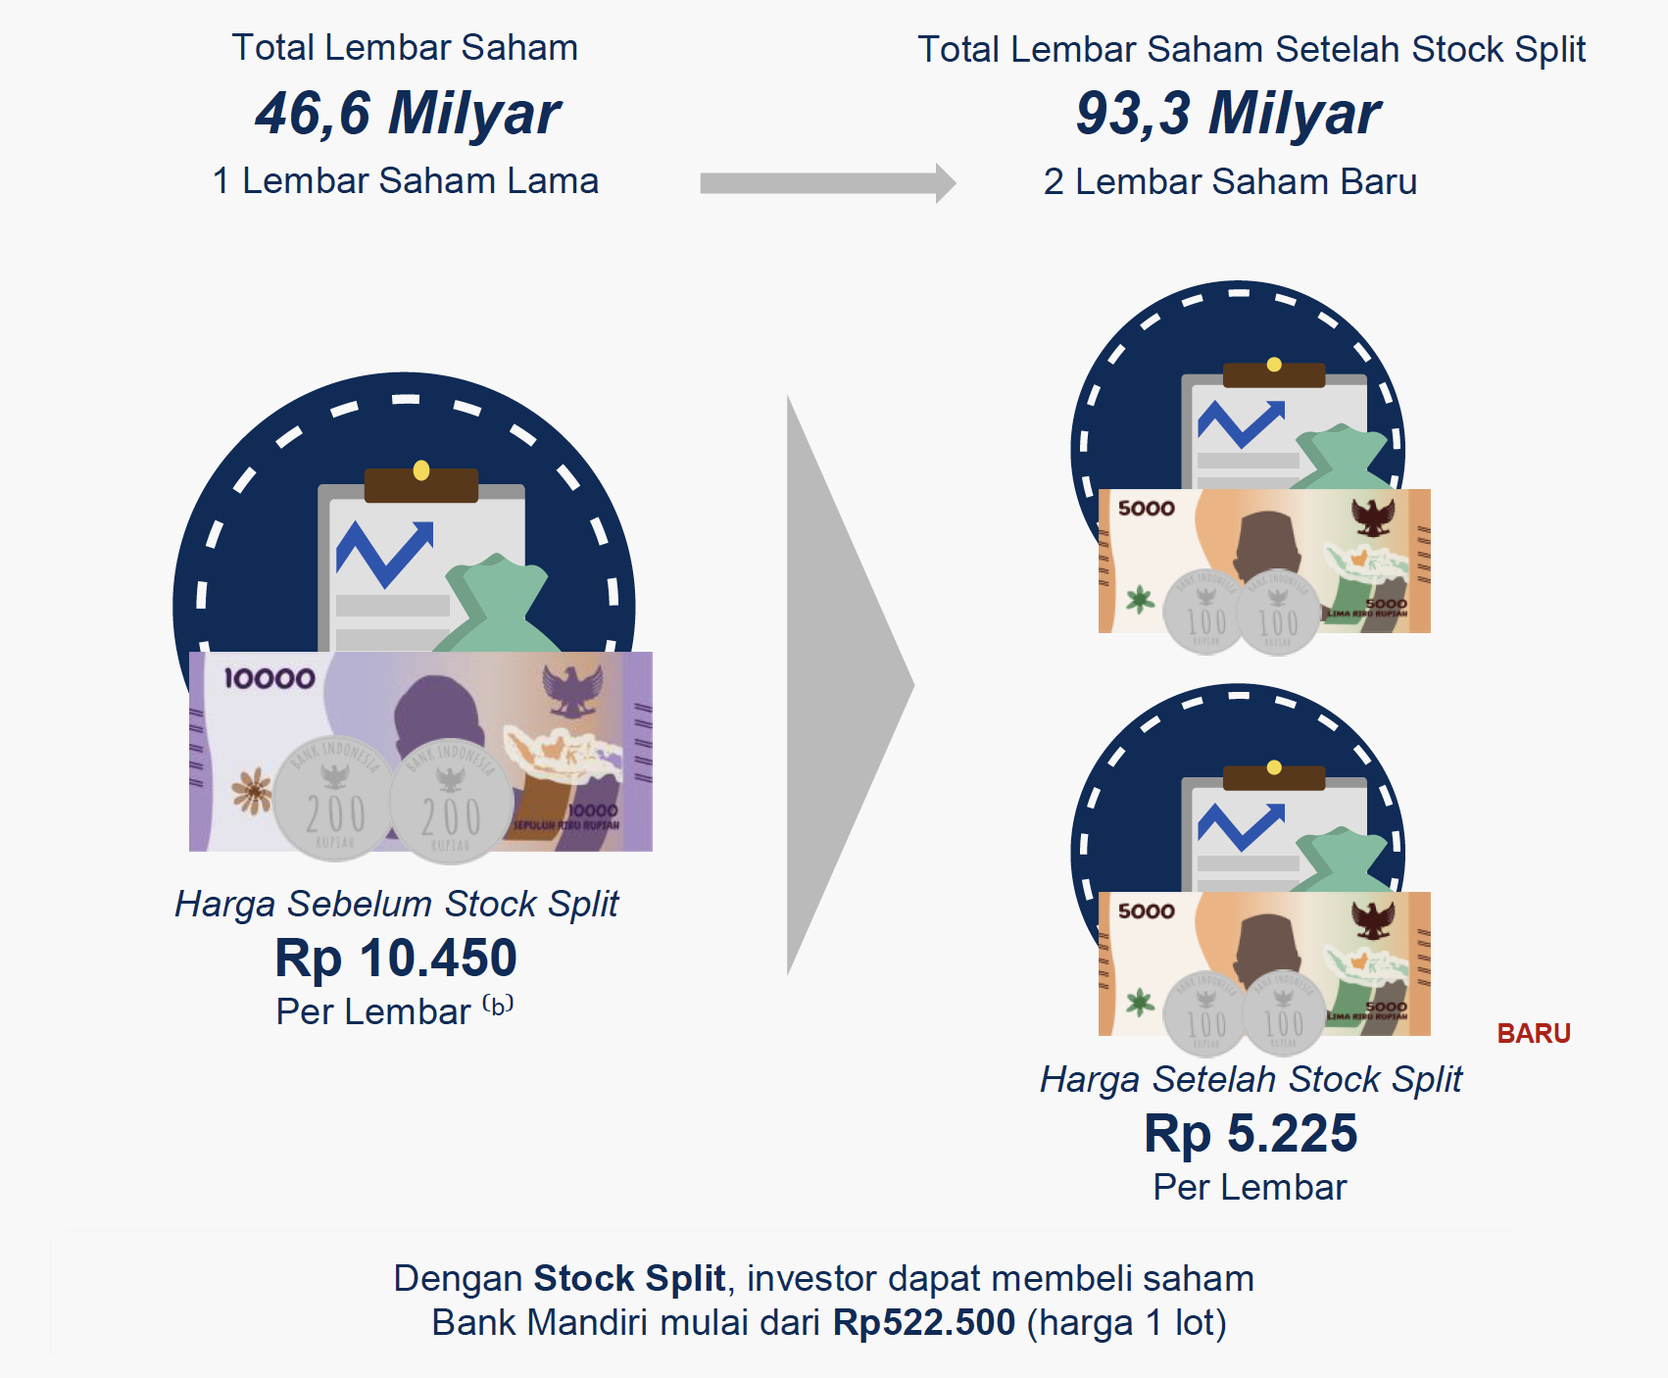
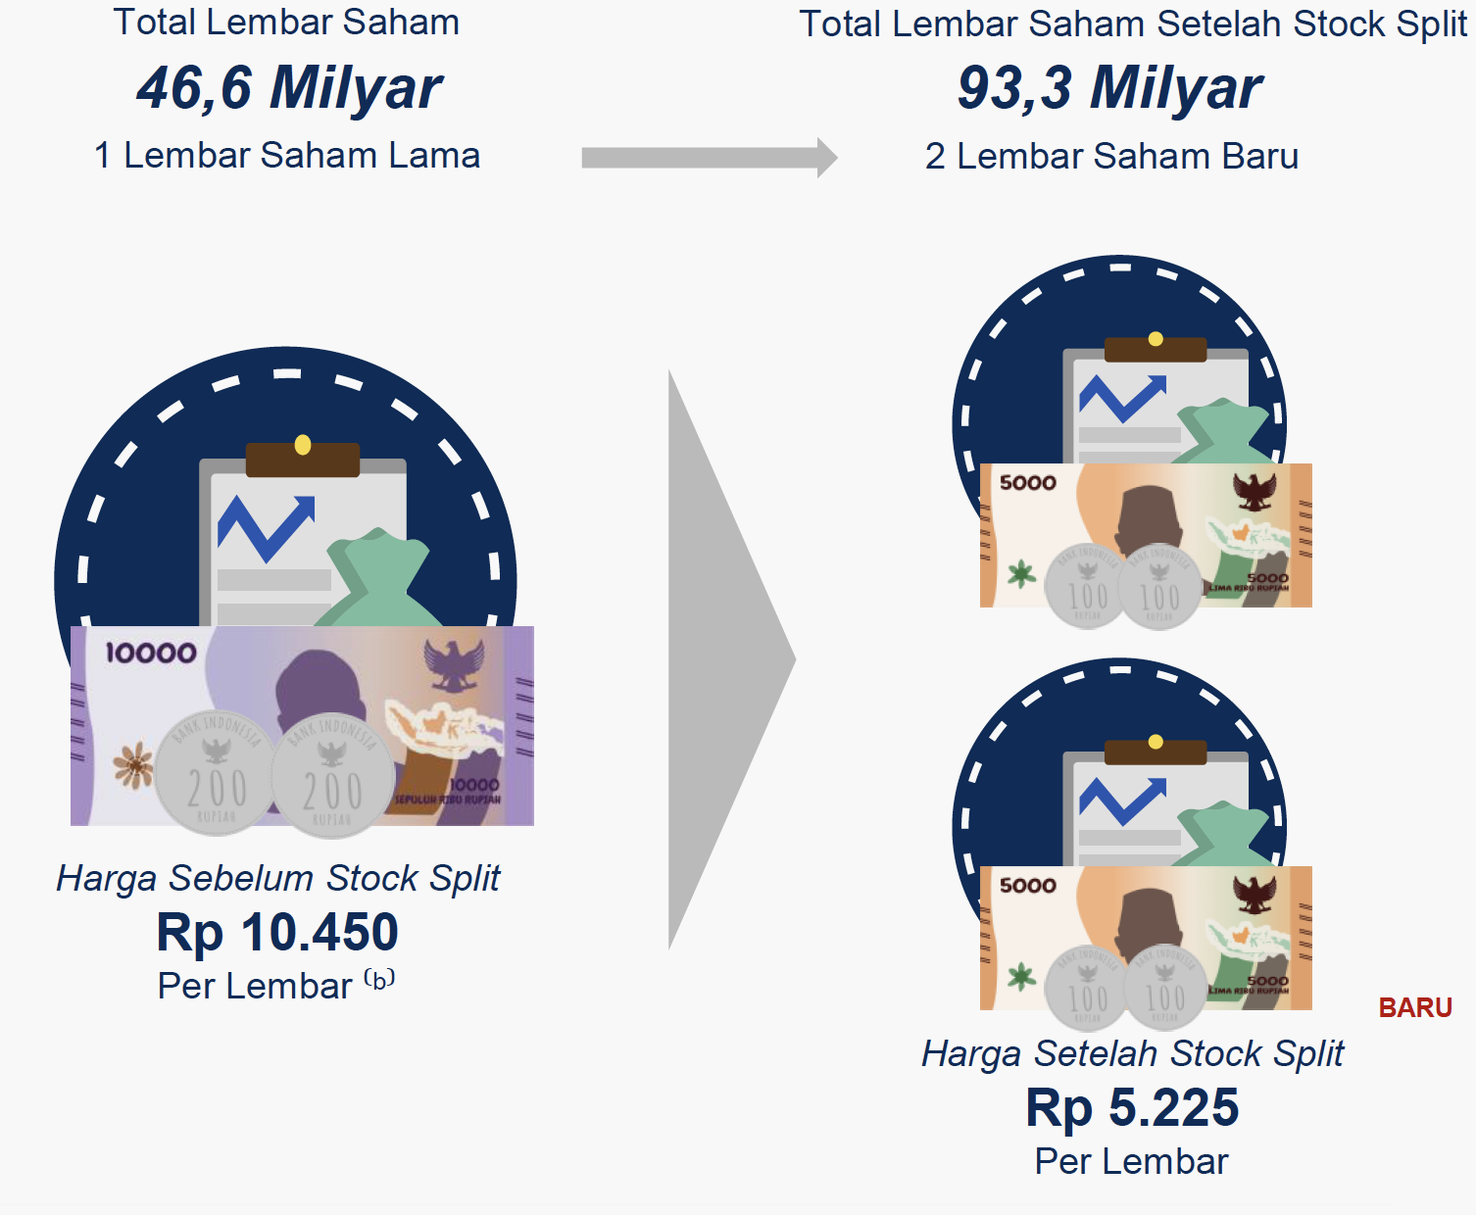
deded

diff --git a/sass/style.css b/sass/style.css
@@ -1,1 +1,1 @@
-@import"https://fonts.googleapis.com/css2?family=Bebas+Neue&family=Libre+Baskerville&family=DM+Serif+Display&family=Oxanium&family=Red+Hat+Display:wght@400;700&family=Bree+Serif&family=Kanit:wght@600&family=Montserrat:wght@400;700&display=swap";@font-face{font-family:"Aeonik Medium";src:url("../fonts/Aeonik-Medium.woff2");src:url("../fonts/Aeonik-Medium.woff2") format("woff2")}@font-face{font-family:"Aeonik Regular";src:url("../fonts/Aeonik-Regular.woff2");src:url("../fonts/Aeonik-Regular.woff2") format("woff2")}body{overflow-x:hidden}.o-hidden{overflow-x:clip}body,main{font-family:"Red Hat Display",sans-serif}.firstletter::first-letter{float:left;font-weight:bold;margin-right:8px;font-size:60px;font-size:6rem;line-height:40px;line-height:4rem;height:4rem;text-transform:uppercase}.slick-slide{margin:0 16px}.slick-list{margin:0 -16px}.slick-next,.slick-prev{border:2px solid rgba(255,255,255,.5);width:42px;background:rgba(135,195,211,.6);height:42px;border-radius:50%}.slick-next:hover,.slick-next:focus,.slick-next:active,.slick-prev:hover,.slick-prev:focus,.slick-prev:active{background:rgba(135,195,211,.8)}.slick-next::before,.slick-prev::before{font-family:"FontAwesome";z-index:99;color:#fff}.slick-next{right:-16px;z-index:9}.slick-next::before{content:""}.slick-prev{left:-16px;z-index:9}.slick-prev::before{content:""}.slick-dots li button::before{font-size:39px;content:"";width:20px;height:3px}.isdesktop{display:block}@media screen and (max-width: 766px){.isdesktop{display:none}}.ismobile{display:none}@media screen and (max-width: 766px){.ismobile{display:block}}#nav{background:rgba(0,120,130,.5) !important;z-index:99 !important;backdrop-filter:blur(11px)}@media screen and (max-width: 766px){#nav{backdrop-filter:initial}}.share_icon>a{padding:0}#share{z-index:108}.share_icon>a i{font-size:25px;line-height:initial}@media screen and (max-width: 766px){.share_icon>a i{font-size:16px !important;line-height:initial}}h2,h3{font-weight:700}section{padding:32px 0;min-height:100vh;position:relative;background:#f8f8f8;z-index:8}section p,section div{font-size:1.2rem}@media screen and (max-width: 766px){section p,section div{font-size:1.2rem}}.totop{position:relative;z-index:88}::-webkit-scrollbar{width:5px;height:5px}::-webkit-scrollbar-track{background:#f1f1f1}::-webkit-scrollbar-thumb{background:#888}::-webkit-scrollbar-thumb:hover{background:#555}.bg-trsp-white{background:rgba(255,255,255,.07);padding:8px 16px;border-radius:8px}.bg-trsp-white p,.bg-trsp-white blockquote{margin-bottom:0;color:#fff}.titlex{font-family:"Aeonik Medium",sans-serif;font-weight:700;color:#fff;font-size:3.5rem;line-height:4rem}@media screen and (max-width: 766px){.titlex{font-size:2.2rem;line-height:2.4rem}}.highlights{color:#f7bb2e;font-weight:700}.headerpp{position:fixed;top:0;right:0;z-index:102;left:0;height:56px;display:none;width:100%;background:#000}@media screen and (max-width: 766px){.footerm{position:fixed;height:46px;width:100%;background:#bbb;z-index:999;display:none;left:0;right:0;bottom:0}}.test-sticky{position:sticky;top:56px}@media screen and (max-width: 766px){.test-sticky{margin-bottom:24px;top:0;text-align:center}}@media screen and (max-width: 766px){.font-in{font-size:1.9rem}}.title__cek{background:linear-gradient(to right, #043262, #1a6ec4);width:fit-content;color:#fff;padding:8px 16px;margin:0 auto;text-align:center;position:relative;border-radius:8px}.title__cek h2{margin-bottom:0;font-size:2.3rem}.banner{width:100vw;background:#fff;height:100%;padding:0;z-index:9;position:relative}.banner #animations-example-4{height:200px;max-width:300px;margin:0 auto;position:absolute;left:0;bottom:0;z-index:9}.banner #animations-example-4 tbody td{transform-origin:bottom;animation:revealing-bars 4s linear infinite}@keyframes revealing-bars{0%{transform:scaleY(0)}15%{transform:scaleY(1)}}.banner::after{content:"";position:absolute;left:0;right:0;bottom:0;height:120px;background:linear-gradient(to top, #f8f8f8, transparent)}.banner .ilus{position:absolute;left:0;right:0;bottom:0;width:100%;height:auto}.banner .ilus img{width:100%;height:100%;object-fit:contain}.banner .img{width:50vw;height:auto;z-index:21;position:absolute;right:0;bottom:0}@media screen and (max-width: 766px){.banner .img{width:100%;bottom:90px}}.banner .img img{width:100%;height:100%;object-fit:cover}.banner .bola{position:absolute;z-index:1}.banner .bola-pink{right:-44px;top:30vh;width:150px;border-radius:50%;height:150px;background:#ffeeafbd}.banner .bola-hijau{left:-32px;top:52px;width:120px;height:120px;border-radius:50%;background:#dcf8f4}.banner__test{position:absolute;right:10vw;bottom:10vh;width:550px;z-index:10;height:auto}@keyframes MoveUpDown{0%,100%{right:0px}50%{right:16px}}.banner__test .bu{position:absolute;bottom:5vh;width:100%;height:420px}.banner__test .bu.animation-one{animation:MoveUpDown 1.5s linear infinite;right:0}.banner__test .bu img{width:100%;height:100%;object-fit:contain}@media screen and (max-width: 766px){.banner__test{width:90vw;top:initial;bottom:10vh;right:initial;left:8px}}.banner__test img{width:100%;height:100%;object-fit:contain}.banner__title{position:absolute !important;left:5vw;z-index:6;top:15vh}@media screen and (max-width: 766px){.banner__title{text-align:center;left:50%;width:100%;transform:translate(-50%, 0%)}}.banner__title h2{color:#fff;font-family:"Montserrat",sans-serif;text-shadow:2px 2px #000;line-height:7rem;font-weight:700}@media screen and (max-width: 766px){.banner__title h2{line-height:3rem}}.banner__title h2.first{font-size:3.7rem;color:#0a3b6a;line-height:4rem;text-shadow:2px 2px #ccc}@media screen and (max-width: 766px){.banner__title h2.first{font-size:2.3rem;line-height:2.5rem;margin-bottom:0}}.banner__title h2.second{font-size:6rem;color:#f7bb2e;line-height:6.5rem}@media screen and (max-width: 766px){.banner__title h2.second{font-size:3.8rem;line-height:4rem;margin-bottom:0}}.banner__title h2.third{font-size:10.5rem;color:#f7bb2e;line-height:8rem;letter-spacing:2rem}@media screen and (max-width: 766px){.banner__title h2.third{font-size:3.8rem;line-height:3.9rem;margin-bottom:0;letter-spacing:normal}}.banner__img{width:100%;opacity:1;height:100%;position:absolute;inset:0}@media screen and (max-width: 766px){.banner__img{opacity:.7}}.banner__img::before{content:"";position:absolute;inset:0;background:linear-gradient(to top, #e2eef7, rgba(226, 238, 247, 0.7))}@media screen and (max-width: 766px){.banner__img::before{background:linear-gradient(to top, #e2eef7, rgba(226, 238, 247, 0.5))}}@media screen and (max-width: 766px){.banner__img{height:100vh}}.banner__img img{width:100%;height:100%;object-fit:cover}.pembukaan{background:#f8f8f8;color:#fff;position:relative;padding:72px 0 32px;z-index:12;color:#302b2b;font-family:"Red Hat Display",sans-serif}@media screen and (max-width: 766px){.pembukaan{padding:80px 0 145px}}.pembukaan .anim-1{position:absolute;left:5vw;bottom:35vh;width:auto;height:auto}@media screen and (max-width: 766px){.pembukaan .anim-1{bottom:5vh}}.pembukaan .anim-1 img{width:100%;height:100%;object-fit:contain}.pembukaan .anim-3{position:absolute;left:5vw;top:5vh;width:auto;height:auto}@media screen and (max-width: 766px){.pembukaan .anim-3{top:0;left:3vw}}.pembukaan .anim-3 img{width:100%;height:100%;object-fit:contain}.pembukaan .anim-5{position:absolute;right:5vw;top:5vh;width:auto;height:auto}@media screen and (max-width: 766px){.pembukaan .anim-5{top:0}}.pembukaan .anim-5 img{width:100%;height:100%;object-fit:contain}.pembukaan .dots{position:absolute;right:10vw;bottom:15vh;width:180px;opacity:1;height:auto}@media screen and (max-width: 766px){.pembukaan .dots{bottom:10vh;width:90px}}.pembukaan .dots img{width:100%;height:100%;object-fit:contain}.pembukaan .hp{position:absolute;bottom:0;left:0;width:320px;height:auto}.pembukaan .hp img{width:100%;height:100%;object-fit:contain}.pembukaan .kertas{position:absolute;inset:0;width:100%;height:100%;opacity:.8}@media screen and (max-width: 766px){.pembukaan .kertas{opacity:.2}}.pembukaan .kertas::after{content:"";position:absolute;inset:0;background:linear-gradient(to top, #f8f8f8, transparent, #f8f8f8)}.pembukaan .kertas img{width:100%;height:100%;object-fit:cover}.pembukaan .imagez{position:absolute;left:0;bottom:0;right:0;top:0;opacity:.2}.pembukaan .imagez::before{position:absolute;content:"";inset:0;background:linear-gradient(to top, transparent, #002750)}.pembukaan .imagez img{width:100%;height:100%;object-fit:cover}.font-bold{font-family:"Aeonik Medium";font-weight:700}.data-table{position:relative}.data-table h4{margin-bottom:0;font-weight:bold;color:gray;width:fit-content;padding:4px;margin:0 auto;border-bottom:2px solid}.data-table .kotaks{width:100%}@media screen and (max-width: 766px){.data-table .kotaks{overflow-x:scroll}}.data-table .img{width:100%;margin:32px auto;height:auto}@media screen and (max-width: 766px){.data-table .img{width:200%}}.data-table .img img{width:100%;height:100%;object-fit:contain}thead tr td{font-size:1rem;font-weight:bold}thead tr td:nth-child(2),thead tr td:nth-child(3),thead tr td:nth-child(4),thead tr td:nth-child(5){text-align:right}tbody tr td:nth-child(2){font-size:1rem}tbody tr td:nth-child(3),tbody tr td:nth-child(4),tbody tr td:nth-child(5){text-align:right}.h3{font-weight:bold;background:#fedc8c;width:fit-content;margin:0 auto;color:#763;padding:8px;font-size:1.5rem;border-radius:8px}@media screen and (max-width: 766px){.h3{font-weight:bold;width:fit-content;padding:8px;font-size:1.5rem;border-radius:8px}}/*# sourceMappingURL=style.css.map */
+@import"https://fonts.googleapis.com/css2?family=Bebas+Neue&family=Libre+Baskerville&family=DM+Serif+Display&family=Oxanium&family=Red+Hat+Display:wght@400;700&family=Bree+Serif&family=Kanit:wght@600&family=Montserrat:wght@400;700&display=swap";@font-face{font-family:"Aeonik Medium";src:url("../fonts/Aeonik-Medium.woff2");src:url("../fonts/Aeonik-Medium.woff2") format("woff2")}@font-face{font-family:"Aeonik Regular";src:url("../fonts/Aeonik-Regular.woff2");src:url("../fonts/Aeonik-Regular.woff2") format("woff2")}body{overflow-x:hidden}.o-hidden{overflow-x:clip}body,main{font-family:"Red Hat Display",sans-serif}.firstletter::first-letter{float:left;font-weight:bold;margin-right:8px;font-size:60px;font-size:6rem;line-height:40px;line-height:4rem;height:4rem;text-transform:uppercase}.slick-slide{margin:0 16px}.slick-list{margin:0 -16px}.slick-next,.slick-prev{border:2px solid rgba(255,255,255,.5);width:42px;background:rgba(135,195,211,.6);height:42px;border-radius:50%}.slick-next:hover,.slick-next:focus,.slick-next:active,.slick-prev:hover,.slick-prev:focus,.slick-prev:active{background:rgba(135,195,211,.8)}.slick-next::before,.slick-prev::before{font-family:"FontAwesome";z-index:99;color:#fff}.slick-next{right:-16px;z-index:9}.slick-next::before{content:""}.slick-prev{left:-16px;z-index:9}.slick-prev::before{content:""}.slick-dots li button::before{font-size:39px;content:"";width:20px;height:3px}.isdesktop{display:block}@media screen and (max-width: 766px){.isdesktop{display:none}}.ismobile{display:none}@media screen and (max-width: 766px){.ismobile{display:block}}#nav{background:rgba(0,120,130,.5) !important;z-index:99 !important;backdrop-filter:blur(11px)}@media screen and (max-width: 766px){#nav{backdrop-filter:initial}}.share_icon>a{padding:0}#share{z-index:108}.share_icon>a i{font-size:25px;line-height:initial}@media screen and (max-width: 766px){.share_icon>a i{font-size:16px !important;line-height:initial}}h2,h3{font-weight:700}section{padding:32px 0;min-height:100vh;position:relative;background:#f8f8f8;z-index:8}section p,section div{font-size:1.2rem}@media screen and (max-width: 766px){section p,section div{font-size:1.2rem}}.totop{position:relative;z-index:88}::-webkit-scrollbar{width:5px;height:5px}::-webkit-scrollbar-track{background:#f1f1f1}::-webkit-scrollbar-thumb{background:#888}::-webkit-scrollbar-thumb:hover{background:#555}.bg-trsp-white{background:rgba(255,255,255,.07);padding:8px 16px;border-radius:8px}.bg-trsp-white p,.bg-trsp-white blockquote{margin-bottom:0;color:#fff}.titlex{font-family:"Aeonik Medium",sans-serif;font-weight:700;color:#fff;font-size:3.5rem;line-height:4rem}@media screen and (max-width: 766px){.titlex{font-size:2.2rem;line-height:2.4rem}}.highlights{color:#f7bb2e;font-weight:700}.headerpp{position:fixed;top:0;right:0;z-index:102;left:0;height:56px;display:none;width:100%;background:#000}@media screen and (max-width: 766px){.footerm{position:fixed;height:46px;width:100%;background:#bbb;z-index:999;display:none;left:0;right:0;bottom:0}}.test-sticky{position:sticky;top:56px}@media screen and (max-width: 766px){.test-sticky{margin-bottom:24px;top:0;text-align:center}}@media screen and (max-width: 766px){.font-in{font-size:1.9rem}}.title__cek{background:linear-gradient(to right, #043262, #1a6ec4);width:fit-content;color:#fff;padding:8px 16px;margin:0 auto;text-align:center;position:relative;border-radius:8px}.title__cek h2{margin-bottom:0;font-size:2.3rem}.banner{width:100vw;background:#fff;height:100%;padding:0;z-index:9;position:relative}.banner #animations-example-4{height:200px;max-width:300px;margin:0 auto;position:absolute;left:0;bottom:0;z-index:9}.banner #animations-example-4 tbody td{transform-origin:bottom;animation:revealing-bars 4s linear infinite}@keyframes revealing-bars{0%{transform:scaleY(0)}15%{transform:scaleY(1)}}.banner::after{content:"";position:absolute;left:0;right:0;bottom:0;height:120px;background:linear-gradient(to top, #f8f8f8, transparent)}.banner .ilus{position:absolute;left:0;right:0;bottom:0;width:100%;height:auto}.banner .ilus img{width:100%;height:100%;object-fit:contain}.banner .img{width:50vw;height:auto;z-index:21;position:absolute;right:0;bottom:0}@media screen and (max-width: 766px){.banner .img{width:100%;bottom:90px}}.banner .img img{width:100%;height:100%;object-fit:cover}.banner .bola{position:absolute;z-index:1}.banner .bola-pink{right:-44px;top:30vh;width:150px;border-radius:50%;height:150px;background:#ffeeafbd}.banner .bola-hijau{left:-32px;top:52px;width:120px;height:120px;border-radius:50%;background:#dcf8f4}.banner__test{position:absolute;right:10vw;bottom:10vh;width:550px;z-index:10;height:auto}@keyframes MoveUpDown{0%,100%{right:0px}50%{right:16px}}.banner__test .bu{position:absolute;bottom:5vh;width:100%;height:420px}.banner__test .bu.animation-one{animation:MoveUpDown 1.5s linear infinite;right:0}.banner__test .bu img{width:100%;height:100%;object-fit:contain}@media screen and (max-width: 766px){.banner__test{width:90vw;top:initial;bottom:10vh;right:initial;left:8px}}.banner__test img{width:100%;height:100%;object-fit:contain}.banner__title{position:absolute !important;left:5vw;z-index:6;top:15vh}@media screen and (max-width: 766px){.banner__title{text-align:center;left:50%;width:100%;transform:translate(-50%, 0%)}}.banner__title h2{color:#fff;font-family:"Montserrat",sans-serif;text-shadow:2px 2px #000;line-height:7rem;font-weight:700}@media screen and (max-width: 766px){.banner__title h2{line-height:3rem}}.banner__title h2.first{font-size:3.7rem;color:#0a3b6a;line-height:4rem;text-shadow:2px 2px #ccc}@media screen and (max-width: 766px){.banner__title h2.first{font-size:2.3rem;line-height:2.5rem;margin-bottom:0}}.banner__title h2.second{font-size:6rem;color:#f7bb2e;line-height:6.5rem}@media screen and (max-width: 766px){.banner__title h2.second{font-size:3.8rem;line-height:4rem;margin-bottom:0}}.banner__title h2.third{font-size:10.5rem;color:#f7bb2e;line-height:8rem;letter-spacing:2rem}@media screen and (max-width: 766px){.banner__title h2.third{font-size:3.8rem;line-height:3.9rem;margin-bottom:0;letter-spacing:normal}}.banner__img{width:100%;opacity:1;height:100%;position:absolute;inset:0}@media screen and (max-width: 766px){.banner__img{opacity:.7}}.banner__img::before{content:"";position:absolute;inset:0;background:linear-gradient(to top, #e2eef7, rgba(226, 238, 247, 0.7))}@media screen and (max-width: 766px){.banner__img::before{background:linear-gradient(to top, #e2eef7, rgba(226, 238, 247, 0.5))}}@media screen and (max-width: 766px){.banner__img{height:100vh}}.banner__img img{width:100%;height:100%;object-fit:cover}.pembukaan{background:#f8f8f8;color:#fff;position:relative;padding:72px 0 32px;z-index:12;color:#302b2b;font-family:"Red Hat Display",sans-serif}@media screen and (max-width: 766px){.pembukaan{padding:80px 0 145px}}.pembukaan .anim-1{position:absolute;left:5vw;bottom:35vh;width:auto;height:auto}@media screen and (max-width: 766px){.pembukaan .anim-1{bottom:5vh}}.pembukaan .anim-1 img{width:100%;height:100%;object-fit:contain}.pembukaan .anim-3{position:absolute;left:5vw;top:5vh;width:auto;height:auto}@media screen and (max-width: 766px){.pembukaan .anim-3{top:0;left:3vw}}.pembukaan .anim-3 img{width:100%;height:100%;object-fit:contain}.pembukaan .anim-5{position:absolute;right:5vw;top:5vh;width:auto;height:auto}@media screen and (max-width: 766px){.pembukaan .anim-5{top:0}}.pembukaan .anim-5 img{width:100%;height:100%;object-fit:contain}.pembukaan .dots{position:absolute;right:10vw;bottom:15vh;width:180px;opacity:1;height:auto}@media screen and (max-width: 766px){.pembukaan .dots{bottom:10vh;width:90px}}.pembukaan .dots img{width:100%;height:100%;object-fit:contain}.pembukaan .hp{position:absolute;bottom:0;left:0;width:320px;height:auto}.pembukaan .hp img{width:100%;height:100%;object-fit:contain}.pembukaan .kertas{position:absolute;inset:0;width:100%;height:100%;opacity:.8}@media screen and (max-width: 766px){.pembukaan .kertas{opacity:.2}}.pembukaan .kertas::after{content:"";position:absolute;inset:0;background:linear-gradient(to top, #f8f8f8, transparent, #f8f8f8)}.pembukaan .kertas img{width:100%;height:100%;object-fit:cover}.pembukaan .imagez{position:absolute;left:0;bottom:0;right:0;top:0;opacity:.2}.pembukaan .imagez::before{position:absolute;content:"";inset:0;background:linear-gradient(to top, transparent, #002750)}.pembukaan .imagez img{width:100%;height:100%;object-fit:cover}.font-bold{font-family:"Aeonik Medium";font-weight:700}.data-table{position:relative}.data-table h4{margin-bottom:0;font-weight:bold;color:gray;width:fit-content;padding:4px;margin:0 auto;border-bottom:2px solid}@media screen and (max-width: 766px){.data-table .kotaksa .img{width:100%}}@media screen and (max-width: 766px){.data-table .kotaksa .img img{width:100%;height:auto;object-fit:contain}}.data-table .kotaks{width:100%}.data-table .kotaks .img{width:100%;margin:32px auto;height:auto}@media screen and (max-width: 766px){.data-table .kotaks .img{width:200%}}.data-table .kotaks .img img{width:100%;height:100%;object-fit:contain}@media screen and (max-width: 766px){.data-table .kotaks{overflow-x:scroll}}thead tr td{font-size:1rem;font-weight:bold}thead tr td:nth-child(2),thead tr td:nth-child(3),thead tr td:nth-child(4),thead tr td:nth-child(5){text-align:right}tbody tr td:nth-child(2){font-size:1rem}tbody tr td:nth-child(3),tbody tr td:nth-child(4),tbody tr td:nth-child(5){text-align:right}.h3{font-weight:bold;background:#fedc8c;width:fit-content;margin:0 auto;color:#763;padding:8px;font-size:1.5rem;border-radius:8px}@media screen and (max-width: 766px){.h3{font-weight:bold;width:fit-content;padding:8px;font-size:1.5rem;border-radius:8px}}/*# sourceMappingURL=style.css.map */

diff --git a/index.html b/index.html
@@ -189,7 +189,7 @@
                         <h3 class="h3">
                             Pembagian Dividen
                         </h3>
-                        <div class="kotaks">
+                        <div class="kotaksa">
                             <div class="img">
                                 <img src="img/eps3/Deviden_1.png" alt="">
                             </div>
@@ -200,9 +200,15 @@
                             <h3 class="h3">
                                     Pelaksanaan Stock Split Dengan Rasio 1:2 BMRI di 2023
                                 </h3>
-                                <div class="kotaks">
+                                <br>
+                                <div class="kotaksa">
                                     <div class="img">
                                         <img src="img/eps3/Deviden_2.png" alt="">
+                                    </div>
+                                </div>
+                                <div class="text-center">
+                                    <div class="highlight">
+                                        <p>Dengan <i><b>Stock Split</b></i>, investor dapat membeli saham Bank Mandiri mulai dari <b>Rp522.500</b> (harga 1 lot)</p>
                                     </div>
                                 </div>
                     </div>

diff --git a/sass/data-table.scss b/sass/data-table.scss
@@ -14,8 +14,42 @@
     }
 
     // overflow: scroll;
+    .kotaksa {
+        .img {
+            @media screen and (max-width:766px) {
+                width: 100%;
+            }
+
+            img {
+                @media screen and (max-width:766px) {
+                    width: 100%;
+                    height: auto;
+                    object-fit: contain;
+                }
+            }
+        }
+    }
+
     .kotaks {
         width: 100%;
+
+        .img {
+            width: 100%;
+            margin: 32px auto;
+
+            height: auto;
+
+            @media screen and (max-width:766px) {
+                width: 200%;
+
+            }
+
+            img {
+                width: 100%;
+                height: 100%;
+                object-fit: contain;
+            }
+        }
 
         @media screen and (max-width:766px) {
             overflow-x: scroll;
@@ -23,23 +57,7 @@
         }
     }
 
-    .img {
-        width: 100%;
-        margin: 32px auto;
 
-        height: auto;
-
-        @media screen and (max-width:766px) {
-            width: 200%;
-
-        }
-
-        img {
-            width: 100%;
-            height: 100%;
-            object-fit: contain;
-        }
-    }
 }
 
 thead {
